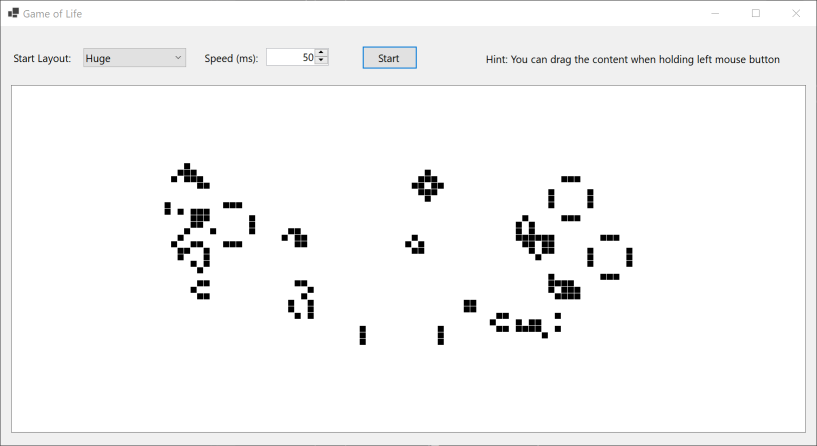
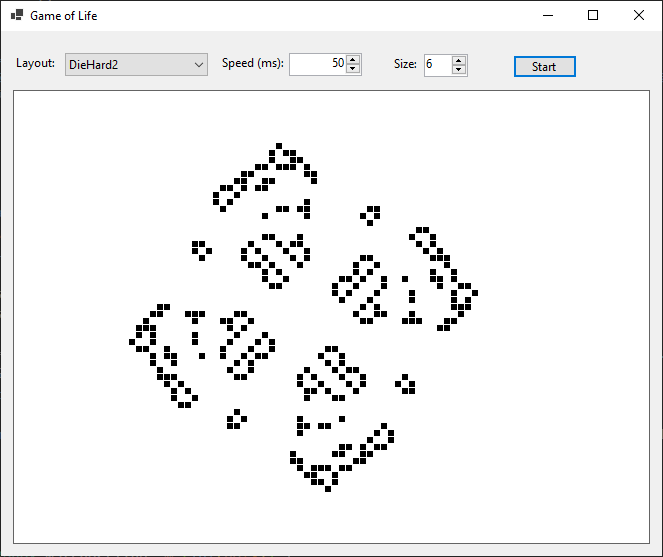
updated readme and screenshot

diff --git a/README.md b/README.md
@@ -6,15 +6,20 @@ Hard to believe that I never implemented Coneways Game of Life before. But event
 
 ## How?
 
-After implementing a first algorithm I realized that only by getting the population itself distributed over the (infinite) space, the program got really slow. The problem was not, having too many living cells, but having some living cells very far away from each other. This caused performance problems, because my first aproach to solve the algorithm, was to first calculate the overall rectangle containing all living cells. Then I iteratited through every single cell of this rectangle. Why? Because any dead cell could come to live if it has three neighbors. But even with only a few cells moving apart from each other (gliders!), the rectangle got really big and the thus the program got really slow.
+After implementing a first algorithm I realized that only by getting the population itself distributed over the (infinite) space, the program got really slow. The problem was not, having too many living cells, but having some living cells very far away from each other. This caused performance problems, because my first aproach to solve the algorithm, was to first calculate the overall rectangle containing all living cells. Then I iteratited through every single cell of this rectangle. Why? Because any dead cell could come to live if it has three neighbors. But even with only a few cells moving apart from each other (gliders!), the rectangle got really big and thus the program got really slow.
 
 The improoved approach is now, to process the living cells in a first step (note: only the living cells are stored in a SortedSet, I don't store dead cells because... why??). As a part of this first processing step, I collect all dead neighbor cells of each living cell. Thus I get a list of all dead cells that have at least one neighbor. Dead cells without neighbors won't come to live anyway, thus we don't have to check them. Then after having processed the living cells, I process these collected currently dead cells to check if they come to live with the current setting of neighbors. 
 
-This second approach causes the algorithm runtime grow with the size of the popuplation and not with it's distribution in the available (infinite) space.
+This second approach causes the algorithm runtime grow only with the size of the popuplation and not with it's distribution in the available (infinite) space.
 
 ## Features of the UI
 
-The start configuration is loaded from a file. Files are recognized by naming convention so you can add new files as needed. One of the files can be selected as start population. The processing can be started and stopped and the frequency of generating a new generation can be adjusted. The displayed canvas can be dragged by the mouse to change the visible area.
+The start configuration is loaded from a file. Files are recognized by naming convention so you can add new files as needed. One of the files can be selected as start population. The processing can be started and stopped and the frequency of generating a new generation can be adjusted. The displayed canvas can be dragged by the mouse to change the visible area. The size of the displayed cells can be changed.
+
+As datafiles, the program supports:
+
+- plain text files: every nonspace character is interpreted as living cell
+- RLE files like described here: https://www.conwaylife.com/wiki/Run_Length_Encoded
 
 ## Screenshot
 
